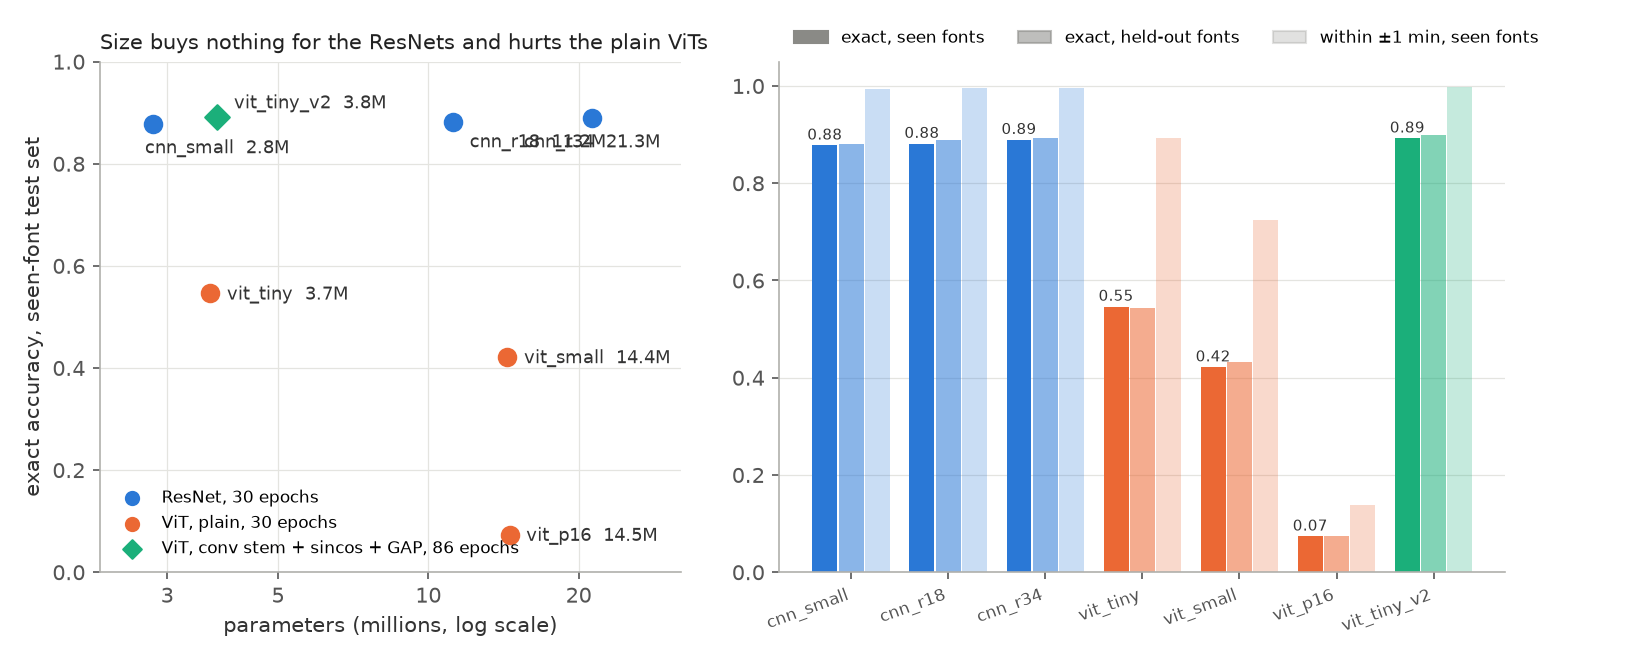
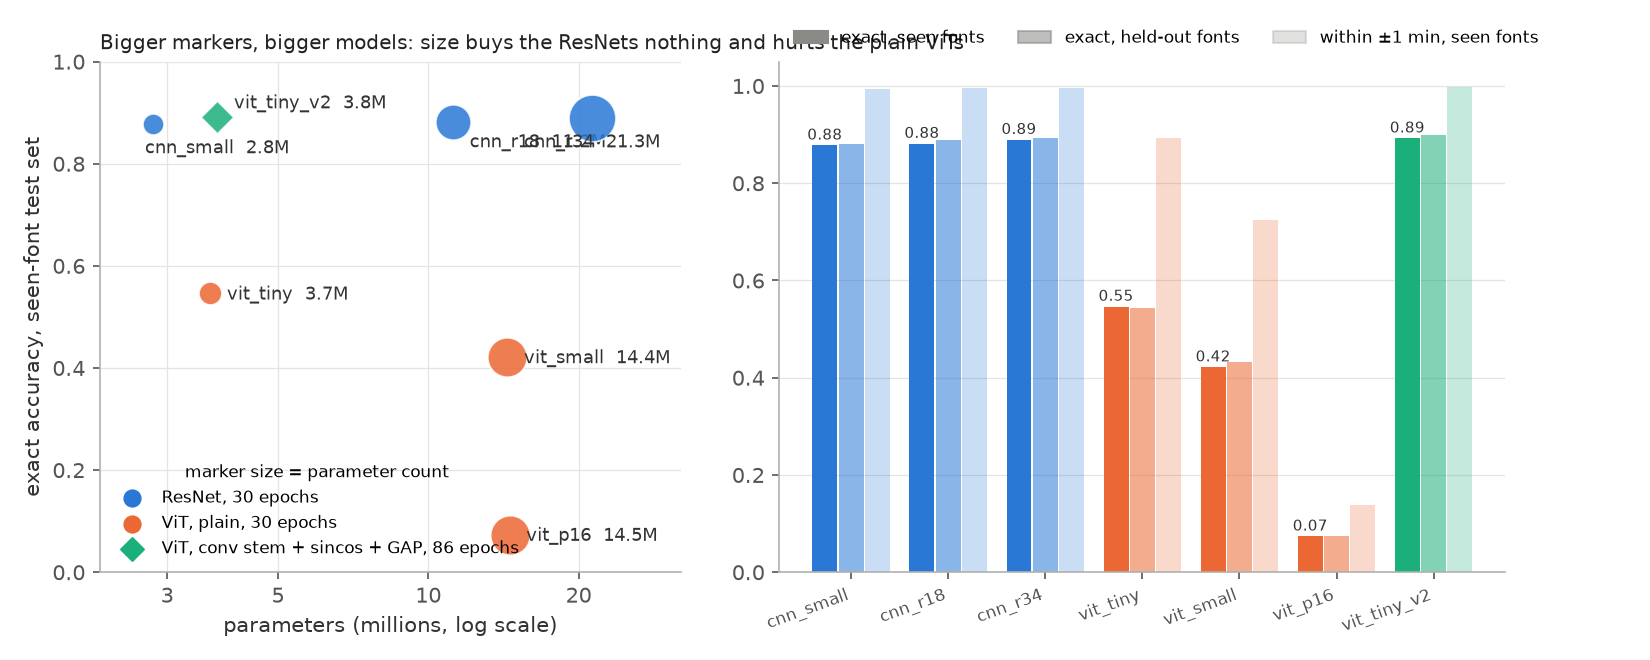
Figure 2.13: marker size by parameter count

diff --git a/_posts/2026-09-15-clocks-part-2-models.md b/_posts/2026-09-15-clocks-part-2-models.md
@@ -610,9 +610,9 @@ two test splits, on CPU:
 
 Figure 2.13 puts every model on one chart.
 
-![Test exact accuracy against parameter count for every model](/assets/clocks/params.png)
+![Test exact accuracy against parameter count for every model, marker size proportional to parameters, beside per-model bars for seen fonts, held-out fonts and within a minute](/assets/clocks/params.png)
 
-**Figure 2.13.** Test exact accuracy against parameter count for every model.
+**Figure 2.13.** Left: test exact accuracy against parameter count for every model, with the marker drawn in proportion to the model's size. Right: exact accuracy on seen and held-out fonts, and the within-a-minute rate, per model.
 {: .figcap}
 
 So a 3.8M-parameter ViT with a different tokeniser ends up level with a
